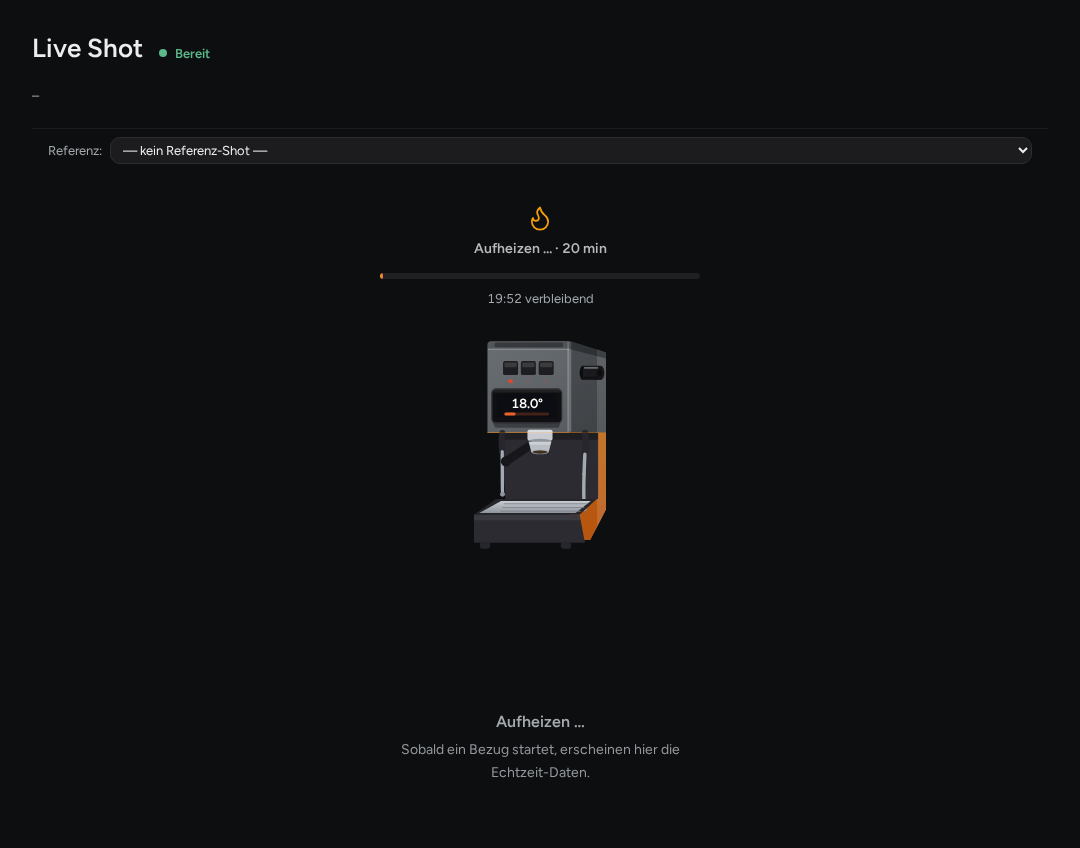
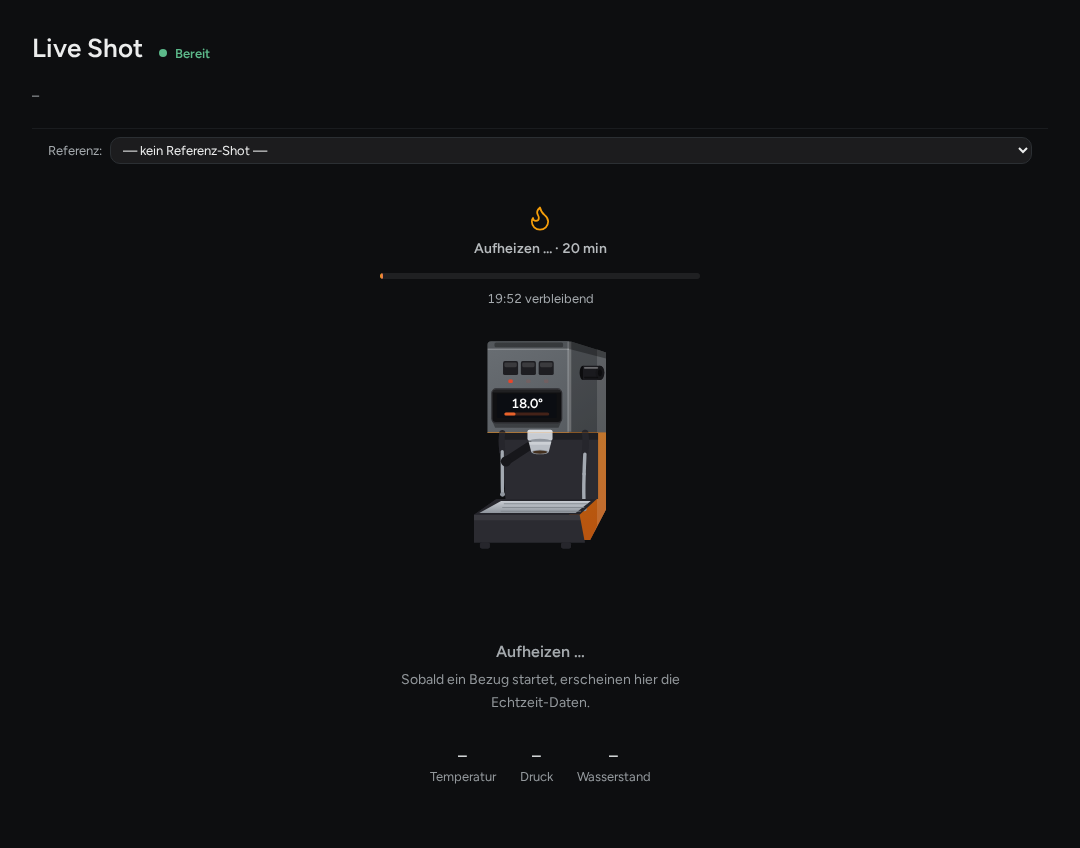
Release v2.36.0: idle Live stats, steam/flush live states, docs/screenshots/dev-stats refresh
Retitles CHANGELOG's Unreleased section to 2.36.0 and bumps GLP_VERSION/
config.yaml/package.json. Updates README (Live Mode + Smart Plug rows),
DOCS.md/DOCS.de.md (power toggle on mobile, stale-data clearing), and
lib/whats-new.js (adds the missing 2.35.0 entry plus 2.36.0, trimmed back
to MAX_ENTRIES). Regenerates README screenshots and dev-stats.

Changed region(s): [[0.3667, 0.7665, 0.6417, 0.9198]]

diff --git a/gaggiuino-local-profiler/lib/whats-new.js b/gaggiuino-local-profiler/lib/whats-new.js
@@ -18,6 +18,18 @@
 // caps it defensively so an out-of-order manual edit can't silently show
 // entries in the wrong order or let the list grow unbounded.
 const WHATS_NEW_ENTRIES = [
+    { version: '2.36.0', date: '2026-08-24', highlights: [
+        'The Live tab now shows current temperature/target, pressure and water level even while idle, instead of just "Ready to brew".',
+        'Steam and flush mode now get the same live treatment as brewing: a timer, live readouts, a badge and the animated machine icon.',
+        'Fixed: the power toggle is now reachable on mobile from the topbar, not just the (mobile-hidden) sidebar.',
+        'Fixed: exhausted beans (zero stock) no longer show up in the shot-annotation bean picker.',
+        'Fixed: the Live tab no longer keeps showing stale readings after the machine loses power or drops off the network.',
+        'Fixed: the Live tab\'s shot timer no longer keeps counting after a BREW_AUTO shot has actually finished.',
+    ] },
+    { version: '2.35.0', date: '2026-08-19', highlights: [
+        'Fixed the armv7 add-on image build, restored by reverting the Docker base image to node:22-slim.',
+        'Switched dependency updates from Dependabot to Renovate.',
+    ] },
     { version: '2.34.0', date: '2026-08-16', highlights: [
         '"Instrument" redesign: a cooler graphite look throughout the app, drawn icons in place of emoji, and a calmer, less boxy shot view with a guided metric line and a plain-text verdict.',
         'Added the achievement stamp card: a browsable catalogue of 54 badges across 7 categories, unlocked automatically as you brew.',
@@ -42,16 +54,6 @@ const WHATS_NEW_ENTRIES = [
         'The Live tab and the sidebar\'s shot counter now update in real time instead of only polling every few seconds, falling back automatically if a live connection can\'t be established.',
         'Settings → Machines: "Test connection" now saves the machine automatically first, you can change the default machine or delete any machine, and the host field can be left empty to save a machine as "not configured yet".',
         'Fixed several shot-sync sticking points (a stuck backfill, an out-of-range shot id) and the Live tab\'s flow reading always showing 0.',
-    ] },
-    { version: '2.31.0', date: '2026-08-07', highlights: [
-        'Added optional per-install shot-logging defaults (Settings → "Shot logging defaults") that auto-prefill a new shot\'s annotation panel.',
-        'Added Basket Stats and Puck Screen Stats groupings to Analytics, alongside the existing Grinder Stats.',
-        'Added on-duration to the status footer, edge-swipe to open the mobile drawer, and a persistent dev-build warning banner.',
-    ] },
-    { version: '2.30.0', date: '2026-08-06', highlights: [
-        'Backup export now downloads as a real .zip with selectable sections, an optional encrypted API-token/MQTT-login section, and a dry-run preview before restoring.',
-        'Fixed the status dot/Live tab staying green for hours after the machine was switched off — and, on the same fix, staying red for minutes after it was switched back on.',
-        'Fixed barcode scanning during bean import being completely broken for every user, blocked by the app\'s own content-security policy.',
     ] },
 ];
 

diff --git a/gaggiuino-local-profiler/lib/constants.js b/gaggiuino-local-profiler/lib/constants.js
@@ -3,7 +3,7 @@ if (typeof File === 'undefined') {
     try { global.File = require('buffer').File; } catch { global.File = class File {}; }
 }
 
-const GLP_VERSION  = '2.35.0';
+const GLP_VERSION  = '2.36.0';
 const DEFAULT_PORT = 8099;
 
 const DATA_DIR             = '/data';

diff --git a/README.md b/README.md
@@ -81,7 +81,7 @@ More in [`docs/screenshots/`](gaggiuino-local-profiler/docs/screenshots/) (Dial-
 |---|---|---|
 | 🔀 | **Multi-Machine** | Manage more than one espresso machine from a single add-on instance — Gaggiuino (full support) or [GaggiMate](https://github.com/jniebuhr/gaggimate) (experimental: sync + live status, read-only profiles). Shot sync now runs for every registered machine, not just the default one; live view stays default-machine-only for now. Maintenance (descaling/backflush/group head/gaskets) is tracked per machine; shared equipment (water filter, grinder) stays global. Existing single-machine installs upgrade automatically, no manual steps. |
 | 📈 | **Shot Archive** | All shots with pressure, flow, weight and temperature curves |
-| 🔴 | **Live Mode** | Real-time display directly from the controller (`/api/system/status`); the Live tab, preheat/ready badge and the sidebar's shot counter push updates instantly over a live connection, falling back automatically to polling if one can't be established |
+| 🔴 | **Live Mode** | Real-time display directly from the controller (`/api/system/status`); the Live tab, preheat/ready badge and the sidebar's shot counter push updates instantly over a live connection, falling back automatically to polling if one can't be established. While idle, the Live tab shows current temperature/target, pressure and water level instead of a bare "Ready to brew"; steam and flush mode get the same live treatment (timer, readouts, badge, animated machine icon) as brewing. Stale readings are cleared automatically if the machine drops off the network. |
 | 📡 | **MQTT Live-Data Transport** | Alternative to the WebSocket connection for live sensor/system data — subscribes to the Gaggiuino's own MQTT-published topics instead, toggled in Settings ("Live connection: WebSocket / MQTT"). Broker connection is auto-discovered via the HA Supervisor's MQTT service when available, with manual entry as a fallback, plus a one-click "Apply to machine" that points the machine's own MQTT client at the same broker. Feeds the exact same live-state cache the WebSocket transport does — `glp-integration` needs zero changes either way. Applies to the default machine only. |
 | 🔄 | **Auto-Sync** | New shots load automatically when `gaggiuino_latest_shot_id` rises; a backfill's progress now updates live with a reliable completion/failure notification, also falling back to polling automatically |
 | ⇄ | **Compare Mode** | Overlay two shots side by side |
@@ -110,7 +110,7 @@ More in [`docs/screenshots/`](gaggiuino-local-profiler/docs/screenshots/) (Dial-
 | 💾 | **.shot Export** | Export in Decent Espresso format (Visualizer.coffee compatible) |
 | 📤 | **CSV Export** | All shots with annotations as CSV |
 | 🖼 | **Share Card** | Export any shot as a 1080×1080 PNG card — score, pressure curve, metadata and GLP branding. Share button uses the native Web Share API on mobile or downloads the PNG on desktop. |
-| 🔌 | **Smart Plug** | Optional: power machine on/off via HA switch entity |
+| 🔌 | **Smart Plug** | Optional: power machine on/off via HA switch entity, from the sidebar on desktop or the topbar power toggle on mobile |
 | ☕ | **Preheat Timer** | Progress bar + countdown after machine switches on; configurable warmup time; smart reset (ignores brief off/on cycles while still warm) |
 | 🌐 | **Multi-Language UI** | DE / EN / IT / FR / ES / NL — auto-detected from browser, persisted per session |
 | 🎨 | **Accent Color Themes** | 6 color schemes: Amber (default), Ocean, Aurora, Ember, Forest, Crema — persisted in localStorage; Crema also warms the neutral gray scale and pairs with a bundled serif (Fraunces) for bean names in the Library and on the share card |

diff --git a/DEVELOPMENT.md b/DEVELOPMENT.md
@@ -1,36 +1,36 @@
 # Development Stats
 
-Generated 2026-08-19 by `scripts/dev-stats.mjs`. Re-run it any time to refresh these numbers — they are computed live from git history, not hand-maintained.
+Generated 2026-08-24 by `scripts/dev-stats.mjs`. Re-run it any time to refresh these numbers — they are computed live from git history, not hand-maintained.
 
 ## Timeline
 
-The GLP ecosystem (this app + 3 companion repos) has been in development since **2026-05-20** — **92 days** as of the last commit (2026-08-19).
+The GLP ecosystem (this app + 3 companion repos) has been in development since **2026-05-20** — **97 days** as of the last commit (2026-08-24).
 
 | Repo | First commit | Last commit | Commits | Claude co-authored |
 |---|---|---|---|---|
-| gaggiuino-local-profiler | 2026-05-20 | 2026-08-19 | 975 | 673 (69%) |
-| glp-integration | 2026-05-22 | 2026-08-19 | 148 | 76 (51%) |
-| glp-lovelace-card | 2026-05-24 | 2026-08-19 | 134 | 82 (61%) |
-| glp-order-card | 2026-05-25 | 2026-08-19 | 105 | 57 (54%) |
-| **Combined** | **2026-05-20** | **2026-08-19** | **1362** | **888 (65%)** |
+| gaggiuino-local-profiler | 2026-05-20 | 2026-08-24 | 1055 | 743 (70%) |
+| glp-integration | 2026-05-22 | 2026-08-24 | 157 | 80 (51%) |
+| glp-lovelace-card | 2026-05-24 | 2026-08-24 | 148 | 91 (61%) |
+| glp-order-card | 2026-05-25 | 2026-08-24 | 113 | 59 (52%) |
+| **Combined** | **2026-05-20** | **2026-08-24** | **1473** | **973 (66%)** |
 
 ![Commits per repo](docs/dev-stats/commits-per-repo.png)
 
-Combined line changes (insertions + deletions across all commits): **336.096**, of which **246.028** landed in Claude-co-authored commits.
+Combined line changes (insertions + deletions across all commits): **392.201**, of which **301.400** landed in Claude-co-authored commits.
 
 Commits without a Claude co-author line are presumed human-only (manual fixes, merges, config tweaks) — not independently verified.
 
 ## Hours of development (lower-bound estimate)
 
-Clustering each repo's commit timestamps into working sessions — commits within 2h of each other join the same session, and each session gets a 30-minute lead-in credited ahead of its first commit — gives a combined **407.8 hours** across all four repos.
+Clustering each repo's commit timestamps into working sessions — commits within 2h of each other join the same session, and each session gets a 30-minute lead-in credited ahead of its first commit — gives a combined **442.8 hours** across all four repos.
 
 | Repo | Hours (session-clustered) |
 |---|---|
-| gaggiuino-local-profiler | 247.3 |
-| glp-integration | 58.8 |
-| glp-lovelace-card | 53.5 |
-| glp-order-card | 48.1 |
-| **Combined** | **407.8** |
+| gaggiuino-local-profiler | 272.6 |
+| glp-integration | 62.6 |
+| glp-lovelace-card | 57.3 |
+| glp-order-card | 50.3 |
+| **Combined** | **442.8** |
 
 This is a **lower-bound estimate derived from git commit timestamps only**, not measured time — it undercounts real work because a long AI-agentic session (orchestration, agent dispatch, review between infrequent commits) can run for hours between commits.
 
@@ -38,13 +38,13 @@ This is a **lower-bound estimate derived from git commit timestamps only**, not 
 
 | Model | Commits |
 |---|---|
-| Claude Sonnet 5 | 404 |
+| Claude Sonnet 5 | 488 |
 | Claude Sonnet 4.6 | 348 |
 | Claude Opus 4.8 | 47 |
 | Claude Fable 5 | 40 |
 | Claude Opus 5 | 36 |
 | Claude | 11 |
-| Claude Haiku 4.5 | 2 |
+| Claude Haiku 4.5 | 3 |
 
 ![Claude model breakdown by commits](docs/dev-stats/model-breakdown.png)
 

diff --git a/gaggiuino-local-profiler/DOCS.de.md b/gaggiuino-local-profiler/DOCS.de.md
@@ -340,7 +340,7 @@ Das Laden von Demo-Daten befüllt die App mit einem statischen Beispieldatensatz
 
 ### Live-Tab, Switch-Entity und Aufwärmtimer
 
-Wenn `switch_entity` gesetzt ist, wird der **Live**-Tab ausgeblendet solange die Maschine aus ist und erscheint automatisch sobald sie eingeschaltet wird. Ohne Switch-Entity ist der Tab immer sichtbar.
+Wenn `switch_entity` gesetzt ist, wird der **Live**-Tab ausgeblendet solange die Maschine aus ist und erscheint automatisch sobald sie eingeschaltet wird. Ohne Switch-Entity ist der Tab immer sichtbar. Der Ein-/Aus-Schalter selbst sitzt am Desktop in der Shot-Sidebar; auf Mobilgeräten, wo die Sidebar ausgeblendet ist, steht derselbe Schalter zusätzlich in der Kopfzeile bereit.
 
 Nach dem Einschalten zeigt der Live-Tab einen Fortschrittsbalken und einen Countdown. Die Maschine gilt als bereit wenn **thermische Stabilität** erkannt wird: die Temperatur muss die letzten 30 Sekunden innerhalb von ±1,5 °C bei oder nahe dem Zielwert liegen. Der feste `preheat_time`-Timer dient als Sicherheits-Ceiling — nach Ablauf wird die Maschine in jedem Fall als bereit markiert, auch ohne erkannte Stabilität. Der Timer wird **nicht** zurückgesetzt bei kurzen Stromunterbrechungen (< 5 Minuten, Temperatur noch über 80 °C). Der Aufwärmstatus wird auch als HA-Sensoren bereitgestellt (`binary_sensor.…preheat_ready`, `sensor.…preheat_elapsed`, `sensor.…preheat_remaining`).
 
@@ -348,7 +348,7 @@ Nach dem Einschalten zeigt der Live-Tab einen Fortschrittsbalken und einen Count
 
 Läuft die Maschine im BREW_AUTO-Modus, endet der Bezugs-Timer in dem Moment, in dem die Firmware selbst den Bezug als beendet meldet, statt darauf zu warten, dass der physische Brühschalter zurückgeklappt wird (den BREW_AUTO nach einem automatischen Stopp oben lässt).
 
-Im Leerlauf (kein Bezug, kein Dampf, kein Spülen aktiv) zeigt der Live-Tab die aktuellen Maschinenwerte — Temperatur samt Ziel, Druck, Wasserstand — statt nur "Maschine bereit" ohne Zahlen. Dampf- und Spülmodus erscheinen als eigene Live-Zustände (Badge, Timer, laufende Temperatur/Druck-Anzeige) — dieselbe Behandlung, die ein Bezug bereits bekommt —, und das animierte Maschinen-Icon spiegelt den jeweils aktiven Modus.
+Im Leerlauf (kein Bezug, kein Dampf, kein Spülen aktiv) zeigt der Live-Tab die aktuellen Maschinenwerte — Temperatur samt Ziel, Druck, Wasserstand — statt nur "Maschine bereit" ohne Zahlen. Dampf- und Spülmodus erscheinen als eigene Live-Zustände (Badge, Timer, laufende Temperatur/Druck-Anzeige) — dieselbe Behandlung, die ein Bezug bereits bekommt —, und das animierte Maschinen-Icon spiegelt den jeweils aktiven Modus. Bei einem Netzwerkfehler beim Abruf (z. B. wenn die Maschine vom Stromnetz getrennt wird oder das Netzwerk verlässt) leert der Live-Tab die veralteten Werte, statt die zuletzt bekannten Zahlen weiter anzuzeigen.
 
 ### Import von kaffeebraun.com
 

diff --git a/gaggiuino-local-profiler/DOCS.md b/gaggiuino-local-profiler/DOCS.md
@@ -337,7 +337,7 @@ Loading demo data seeds a static sample dataset — about a dozen shots with pla
 
 ### Live tab, switch entity and preheat timer
 
-When `switch_entity` is set, the **Live** tab is hidden while the machine is off and appears automatically once it powers on. If no switch entity is configured the tab is always visible.
+When `switch_entity` is set, the **Live** tab is hidden while the machine is off and appears automatically once it powers on. If no switch entity is configured the tab is always visible. The power toggle itself lives in the shot sidebar on desktop; on mobile, where the sidebar is hidden, the same toggle is also available from the topbar.
 
 Once the machine turns on, a preheat progress bar and countdown are shown in the Live tab. The machine is considered ready when **thermal stability** is detected: temperature must remain within ±1.5 °C over the last 30 seconds while at or near the target temperature. The fixed `preheat_time` timer acts as a safety ceiling — the machine will always be marked ready after that many minutes even if stability was not detected. The timer does **not** reset on brief power cycles (off for < 5 minutes, still above 80 °C). The preheat state is exposed as HA sensors via the companion integration (`binary_sensor.…preheat_ready`, `sensor.…preheat_elapsed`, `sensor.…preheat_remaining`).
 
@@ -345,7 +345,7 @@ Once the machine turns on, a preheat progress bar and countdown are shown in the
 
 On a machine running BREW_AUTO, the shot timer ends the instant the firmware itself reports the brew as finished, rather than waiting for the physical brew switch to be flipped back down (which BREW_AUTO leaves up after an auto-stop).
 
-While idle (no shot, steam or flush running), the Live tab shows the machine's current stats — temperature and target, pressure, water level — instead of just "Ready to brew" with no numbers. Steam and flush mode are shown as their own live states (badge, timer, running temperature/pressure), the same treatment brewing already gets, with the animated machine icon reflecting whichever mode is active.
+While idle (no shot, steam or flush running), the Live tab shows the machine's current stats — temperature and target, pressure, water level — instead of just "Ready to brew" with no numbers. Steam and flush mode are shown as their own live states (badge, timer, running temperature/pressure), the same treatment brewing already gets, with the animated machine icon reflecting whichever mode is active. If a network-level fetch failure occurs (e.g. the machine loses power or drops off the network), the Live tab clears its stale readings instead of continuing to display the last values it had.
 
 ### Import from kaffeebraun.com
 

diff --git a/gaggiuino-local-profiler/CHANGELOG.md b/gaggiuino-local-profiler/CHANGELOG.md
@@ -1,4 +1,4 @@
-## [Unreleased]
+## [2.36.0] – 2026-08-24
 
 ### Fixed
 - **The power toggle button is now reachable on mobile.** It used to live only in the shot sidebar, which is hidden entirely on mobile screens, so there was no way to switch the machine on or off from a phone. Closes #914
